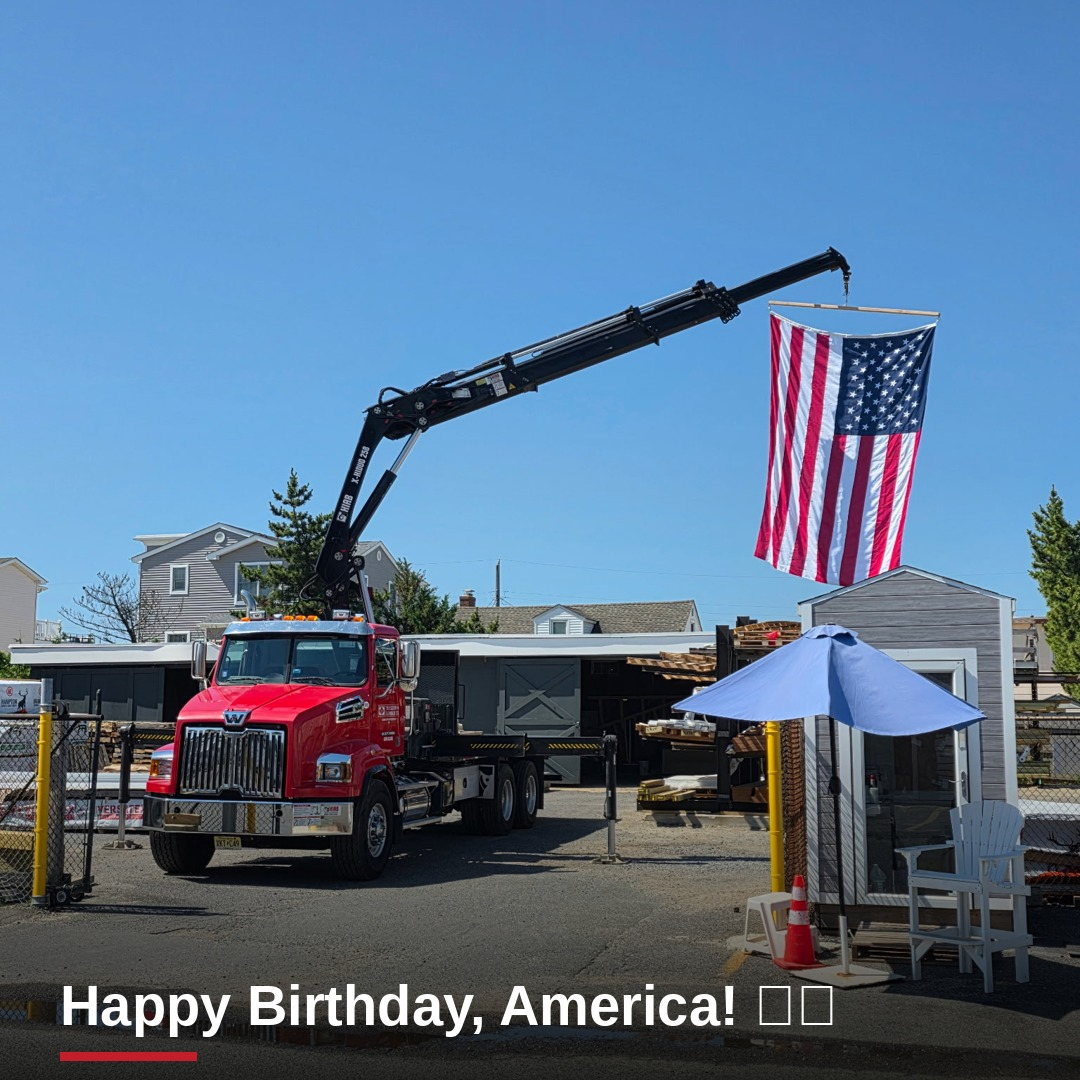
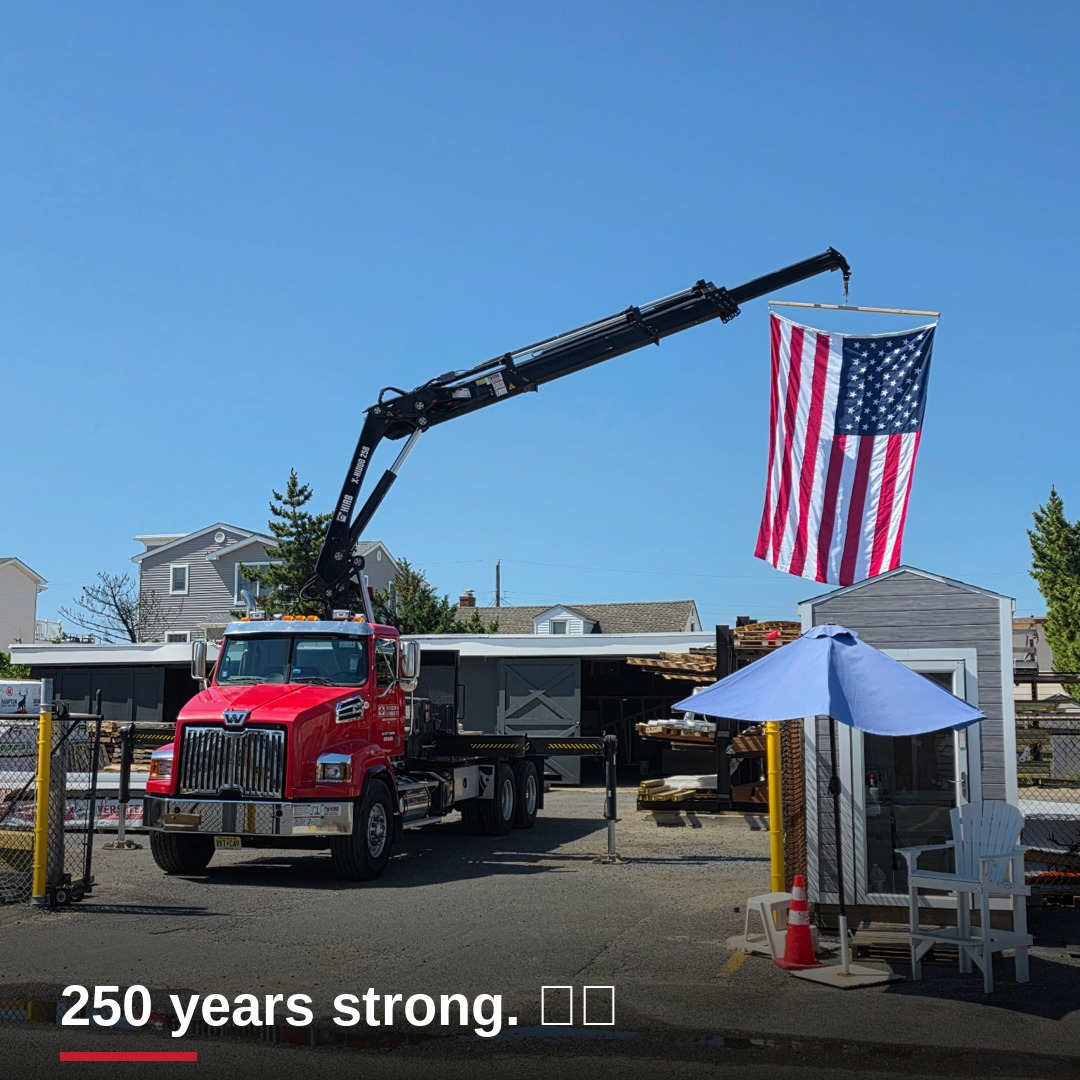
Preview: add scrolling vs tapped-open modes; flag = 250th (no date) + full-scene headline
- index.html: Preview now toggles between the in-feed 'while scrolling' look
  (Facebook overlays page name/caption on the image bottom) and the clean
  'tapped open' view — so collisions are caught before posting
- render.py: wide (landscape) photos in Headline Story keep the whole scene
  (blurred backdrop + full photo) instead of cropping the sides off — more flag
- flag: caption reworked to the 250th with no date reference

Changed region(s): [[0.0611, 0.8861, 0.7333, 0.9778]]

diff --git a/index.html b/index.html
@@ -386,6 +386,19 @@
   .fbprev-photo { width: 100%; display: block; background: #000; }
   .fbprev-stats { display: flex; justify-content: space-between; padding: 10px 12px; font-size: 13px; color: #65676b; border-bottom: 1px solid #ced0d4; }
   .fbprev-bar { display: flex; justify-content: space-around; padding: 8px 0; font-size: 14px; color: #65676b; font-weight: 600; }
+  /* scroll (immersive) mode — Facebook overlays the label + caption on the image */
+  .fbprev-immersive { position: relative; line-height: 0; }
+  .fbprev-ov { position: absolute; left: 0; right: 0; bottom: 0; padding: 40px 12px 12px; line-height: 1.35;
+    background: linear-gradient(rgba(0,0,0,0) 0%, rgba(0,0,0,.35) 45%, rgba(0,0,0,.82) 100%); color: #fff; }
+  .fbprev-ov-hd { display: flex; align-items: center; gap: 8px; margin-bottom: 6px; }
+  .fbprev-av-sm { width: 30px; height: 30px; border-radius: 50%; color: #fff; font-weight: 700; font-size: 12px; display: flex; align-items: center; justify-content: center; }
+  .fbprev-ov-pg { font-weight: 700; font-size: 15px; }
+  .fbprev-ov-time { font-size: 12px; color: #dfe2e8; }
+  .fbprev-ov .fbprev-cap { padding: 0; color: #fff; font-size: 15px; }
+  .fbprev-ov .fbprev-more { padding: 2px 0 0; color: #dfe2e8; }
+  .fbprev-toggle { display: flex; gap: 6px; justify-content: center; margin-bottom: 4px; }
+  .fbprev-toggle button { border: 1px solid var(--border); background: var(--panel); color: var(--text); border-radius: 999px; padding: 6px 14px; font-size: 13px; cursor: pointer; }
+  .fbprev-toggle button.on { background: var(--accent); border-color: var(--accent); color: #0b0d12; font-weight: 700; }
   .toast {
     position: fixed;
     left: 50%;
@@ -1196,44 +1209,78 @@ function openModal(html) {
 }
 function closeModal() { $("modalHost").innerHTML = ""; }
 
-// Facebook preview — shows exactly how a post will look in-feed before it goes
-// live. For a crosspost, one card per target Page, each with its own branding.
-function previewPost(postId, optionId) {
+// Facebook preview — shows exactly how a post will look before it goes live.
+// Two modes: "scroll" = how it looks while scrolling the feed (Facebook lays
+// the page name + caption OVER the bottom of a tall image), and "tap" = the
+// clean full-screen view after you tap the photo. For a crosspost, one card
+// per target Page, each with its own branding.
+function previewPost(postId, optionId, mode) {
   const post = state.posts.find(p => p.id === postId);
   if (!post) return;
+  mode = mode || "scroll";
   const options = normalizeOptions(post);
   const option = optionId ? (options.find(o => o.optionId === optionId) || selectedOption(post)) : selectedOption(post);
   const caption = post.editedCaption || option.caption || post.caption || "";
   const image = option.imageUrl || post.imageUrl || "";
   const targets = (Array.isArray(post.crosspostBrands) && post.crosspostBrands.length)
     ? post.crosspostBrands : [post.brand || "TLC"];
-  const cards = targets.map(code => fbCard(code, caption, image)).join("");
+  const oid = optionId || "";
+  const cards = targets.map(code => fbCard(code, caption, image, mode)).join("");
+  const toggle = `
+    <div class="fbprev-toggle">
+      <button class="${mode === "scroll" ? "on" : ""}" onclick="previewPost('${attr(postId)}','${attr(oid)}','scroll')">While scrolling</button>
+      <button class="${mode === "tap" ? "on" : ""}" onclick="previewPost('${attr(postId)}','${attr(oid)}','tap')">Tapped open</button>
+    </div>`;
   openModal(`
     <div class="modal-head"><strong>Facebook preview</strong><button class="small" onclick="closeModal()">Close</button></div>
-    <div class="modal-body fbprev-body">${cards}</div>
+    <div class="modal-body fbprev-body">${toggle}${cards}</div>
     <div class="modal-foot"><button onclick="closeModal()">Done</button></div>
   `);
 }
-function fbCard(code, caption, image) {
+function fbCard(code, caption, image, mode) {
   const b = brandMeta[code] || brandMeta.TLC;
   const capId = "cap-" + Math.random().toString(36).slice(2);
   const long = String(caption).length > 140;
+  const img = image
+    ? `<img class="fbprev-photo" src="${attr(image)}" alt="preview" onerror="this.replaceWith(Object.assign(document.createElement('div'),{className:'media-note',textContent:'Image failed to load'}))">`
+    : `<div class="media-note">No image attached</div>`;
+  const bar = `<div class="fbprev-bar"><span>👍 Like</span><span>💬 Comment</span><span>↪ Share</span></div>`;
+  const capBlock = `<div class="fbprev-cap${long ? " clamp" : ""}" id="${capId}">${esc(caption)}</div>${long ? `<div class="fbprev-more" onclick="toggleCap('${capId}')">See more</div>` : ""}`;
+
+  if (mode === "scroll") {
+    // Facebook's immersive feed: page name + caption overlaid on the image bottom
+    return `
+    <div class="fbprev">
+      <div class="fbprev-tag">${esc(b.pageName)} — while scrolling</div>
+      <div class="fbprev-card">
+        <div class="fbprev-immersive">
+          ${img}
+          <div class="fbprev-ov">
+            <div class="fbprev-ov-hd">
+              <div class="fbprev-av-sm" style="background:${b.color}">${esc(b.initials)}</div>
+              <span class="fbprev-ov-pg">${esc(b.pageName)}</span><span class="fbprev-ov-time"> · 5m · 🌐</span>
+            </div>
+            ${capBlock}
+          </div>
+        </div>
+        ${bar}
+      </div>
+    </div>`;
+  }
+  // Tapped-open: clean card, caption below the image
   return `
     <div class="fbprev">
-      <div class="fbprev-tag">${esc(b.pageName)} page</div>
+      <div class="fbprev-tag">${esc(b.pageName)} — tapped open</div>
       <div class="fbprev-card">
         <div class="fbprev-hd">
           <div class="fbprev-av" style="background:${b.color}">${esc(b.initials)}</div>
           <div class="fbprev-meta"><div class="fbprev-pg">${esc(b.pageName)}</div><div class="fbprev-sub">Just now · 🌐</div></div>
           <div class="fbprev-dots">···</div>
         </div>
-        <div class="fbprev-cap${long ? " clamp" : ""}" id="${capId}">${esc(caption)}</div>
-        ${long ? `<div class="fbprev-more" onclick="toggleCap('${capId}')">See more</div>` : ""}
-        ${image
-          ? `<img class="fbprev-photo" src="${attr(image)}" alt="preview" onerror="this.replaceWith(Object.assign(document.createElement('div'),{className:'media-note',textContent:'Image failed to load'}))">`
-          : `<div class="media-note">No image attached</div>`}
+        ${capBlock}
+        ${img}
         <div class="fbprev-stats"><span>👍 ❤️ 42</span><span>7 comments · 3 shares</span></div>
-        <div class="fbprev-bar"><span>👍 Like</span><span>💬 Comment</span><span>↪ Share</span></div>
+        ${bar}
       </div>
     </div>`;
 }

diff --git a/scripts/render.py b/scripts/render.py
@@ -120,24 +120,41 @@ def _clean_feed(src, b, copy):
     return img
 
 
-def _headline_story(src, b, copy):
-    W, H = 1080, 1920
-    img = _fill(src, W, H).convert("RGBA")
-    # Facebook overlays the page name + caption across the BOTTOM of tall (9:16)
-    # feed images. So all our text lives up TOP (above that overlay, where it
-    # stays sharp) and the bottom is left clear — no duplicate branding, no
-    # collision with FB's own label. Top scrim only.
-    img.alpha_composite(_scrim(W, 820, 225, 0))
-    d = ImageDraw.Draw(img)
+def _headline_text(d, b, copy):
+    """Headline + subhead + CTA block, top-anchored (Facebook's safe zone)."""
+    W = 1080
     d.rectangle((72, 120, 192, 132), fill=b["color_rgb"])
     hf = _fit(d, copy["headline"], True, W - 144, 150)
     y = _draw_wrapped(d, 72, 168, copy["headline"], hf, WHITE, W - 144, hf.size + 6)
     y = _draw_wrapped(d, 72, y + 18, copy.get("subhead", ""), _font(False, 46), (235, 238, 245), W - 144, 58)
-    # CTA sits just under the subhead — still in the top safe zone
     cta = copy.get("cta") or b["primary_cta"]
     cf = _fit(d, cta, True, W - 144, 46, min_size=32)
     y = _draw_wrapped(d, 72, y + 22, cta, cf, WHITE, W - 144, cf.size + 8)
     d.rectangle((72, y + 10, 178, y + 20), fill=b["color_rgb"])
+
+
+def _headline_story(src, b, copy):
+    W, H = 1080, 1920
+    src_rgb = src.convert("RGB")
+    # Facebook overlays the page name + caption across the BOTTOM of tall (9:16)
+    # feed images, so all our text lives up TOP where it stays sharp and the
+    # bottom is left clear (no duplicate branding, no collision).
+    if src_rgb.width > src_rgb.height:
+        # WIDE photo: cropping to 9:16 would trim the sides off (e.g. the flag).
+        # Keep the whole scene — blurred cover backdrop with the full photo
+        # pinned lower-middle and the headline up top.
+        img = _fill(src_rgb, W, H).filter(ImageFilter.GaussianBlur(30)).convert("RGBA")
+        img.alpha_composite(Image.new("RGBA", (W, H), (8, 10, 14, 140)))
+        ph = round(src_rgb.height * (W / src_rgb.width))
+        py = 700
+        img.alpha_composite(src_rgb.resize((W, ph)).convert("RGBA"), dest=(0, py))
+        img.alpha_composite(_scrim(W, py + 40, 205, 0))  # darken the headline zone
+    else:
+        # Tall/square photo: fill the frame; top scrim carries the headline.
+        img = _fill(src_rgb, W, H).convert("RGBA")
+        img.alpha_composite(_scrim(W, 820, 225, 0))
+    d = ImageDraw.Draw(img)
+    _headline_text(d, b, copy)
     return img
 
 